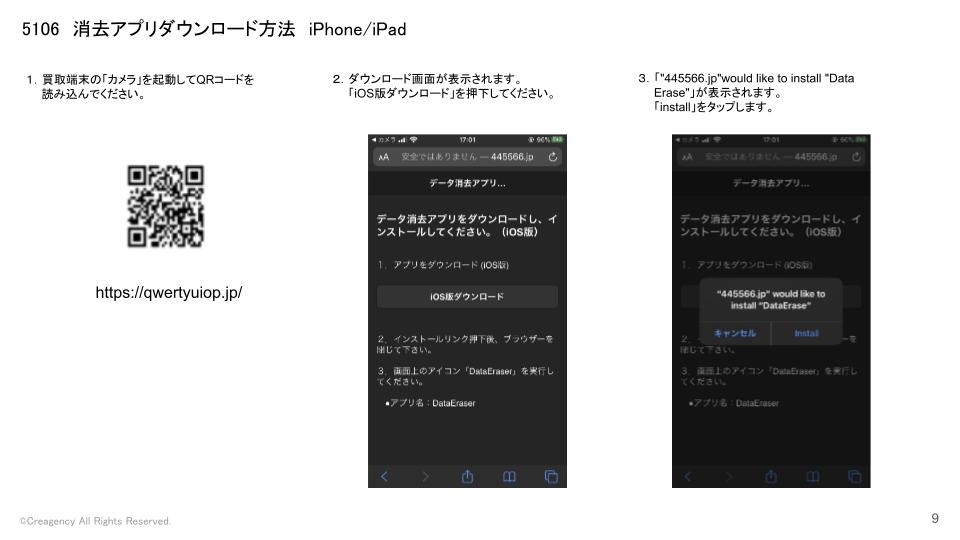
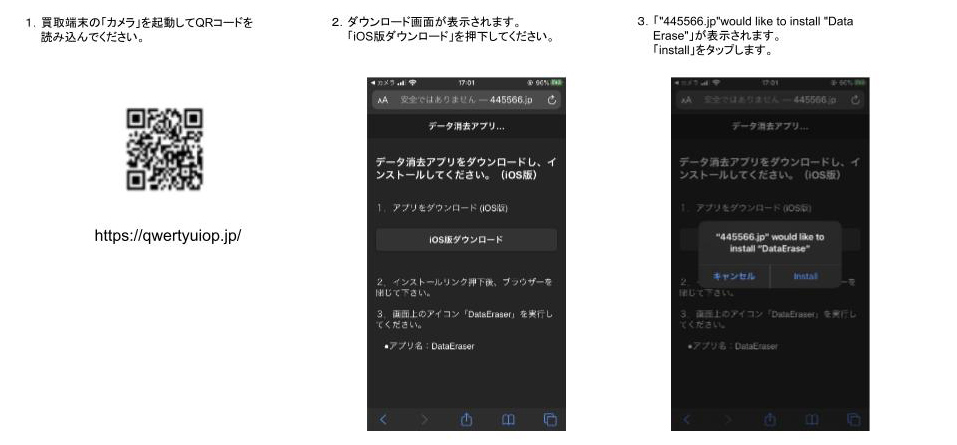
写真の追加を行いました

diff --git a/5106.html b/5106.html
@@ -87,8 +87,8 @@
         <div class="blank"></div>
         <h1>iPhone/iPadのダウンロード手順</h1>
         <div class="image-part">
-          <img src="images/5106_01.jpg" alt="">
-          <img src="images/5106_02.jpg" alt="">
+          <img src="images/5106_01.jpg" alt="" width="100%">
+          <img src="images/5106_02.jpg" alt="" width="100%">
           <!--img src="images/5105_03.jpg" alt="">
           <img src="images/5105_04.jpg" alt=""-->
         </div>
